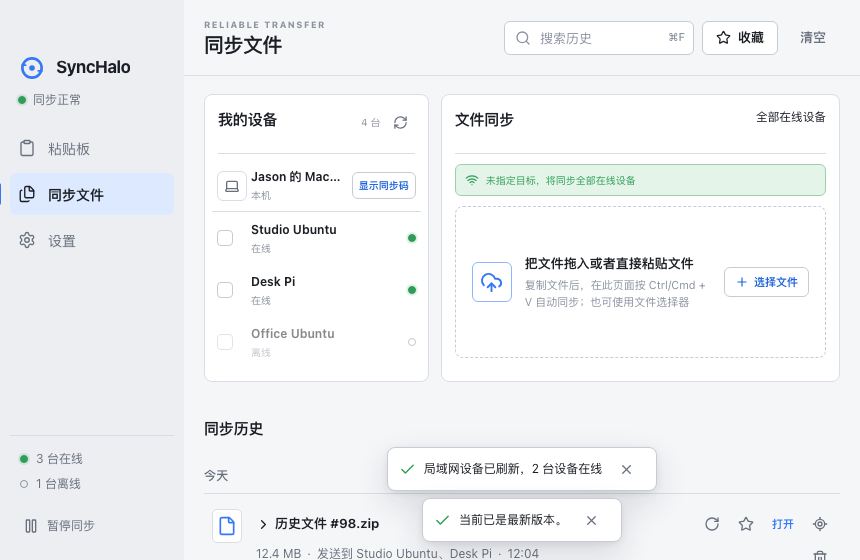
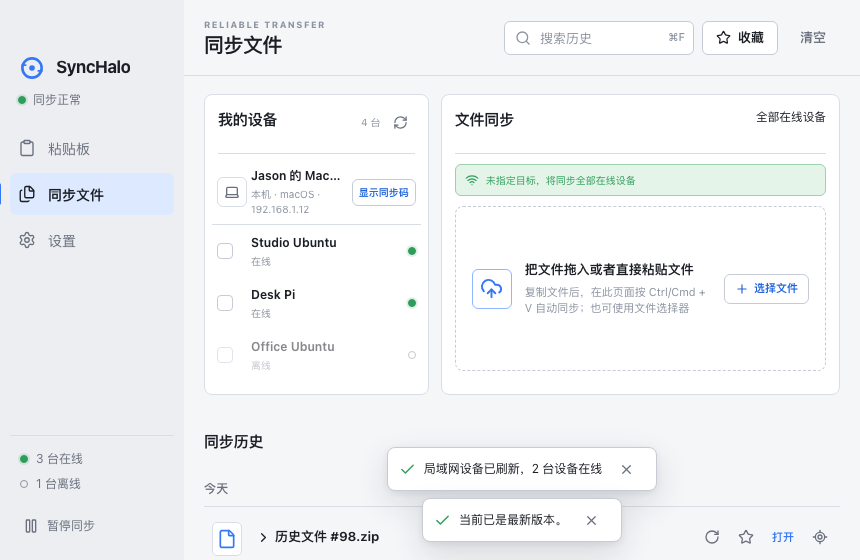
feat(devices): show local IP alongside system information

diff --git a/apps/desktop/src/pages/SettingsPage.tsx b/apps/desktop/src/pages/SettingsPage.tsx
@@ -16,7 +16,6 @@ import { useEffect, useMemo, useRef, useState } from "react";
 import type { ReactNode } from "react";
 
 import type {
-  DevicePlatform,
   DeviceView,
   HistoryRetention,
   LanguagePreference,
@@ -31,7 +30,7 @@ import { PageHeader } from "../components/PageHeader";
 import { Switch } from "../components/Switch";
 import { useI18n } from "../i18n";
 import type { MessageKey } from "../i18n/messages";
-import { formatRelative } from "../lib/format";
+import { formatDeviceSystem, formatRelative } from "../lib/format";
 
 interface SettingsPageProps {
   appVersion: string | null;
@@ -442,8 +441,7 @@ function DeviceGroup({
           <div className="device-copy">
             <strong>{device.name}</strong>
             <span>
-              {platformLabel(device.platform, t("common.unknownPlatform"))}
-              {device.address ? ` · ${device.address.split(":")[0]}` : ""}
+              {formatDeviceSystem(device, t("common.unknownPlatform"))}
               {device.paused ? ` · ${t("common.paused")}` : ""}
               {!device.isCurrent && device.connectionState === "offline"
                 ? ` · ${t("settings.lastOnline", { time: formatRelative(device.lastSeenAt, t) })}`
@@ -486,8 +484,4 @@ function DeviceGroup({
 function formatPairingInput(value: string): string {
   const digits = value.replace(/\D/g, "").slice(0, 6);
   return digits.length > 3 ? `${digits.slice(0, 3)} ${digits.slice(3)}` : digits;
-}
-
-function platformLabel(platform: DevicePlatform, unknown: string): string {
-  return platform === "macos" ? "macOS" : platform === "linux" ? "Ubuntu / Linux" : unknown;
 }

diff --git a/apps/desktop/src/App.test.tsx b/apps/desktop/src/App.test.tsx
@@ -40,6 +40,7 @@ describe("SyncHalo shell", () => {
     fireEvent.click(screen.getByRole("button", { name: /设置/ }));
     expect(screen.getByRole("heading", { name: "设置" })).toBeInTheDocument();
     expect(screen.getByText("我的设备")).toBeInTheDocument();
+    expect(document.querySelector(".device-row")).toHaveTextContent("macOS · 192.168.1.12");
     expect(screen.getByText("同步与历史")).toBeInTheDocument();
     expect(screen.queryByText("粘贴板与历史")).not.toBeInTheDocument();
     expect(screen.queryByText("自动同步粘贴板")).not.toBeInTheDocument();
@@ -305,7 +306,7 @@ describe("SyncHalo shell", () => {
 
     const deviceRows = document.querySelectorAll(".sync-device-row");
     expect(deviceRows[0]).toHaveTextContent("Jason 的 MacBook Air");
-    expect(deviceRows[0]).toHaveTextContent("本机");
+    expect(deviceRows[0]).toHaveTextContent("本机 · macOS · 192.168.1.12");
     fireEvent.click(screen.getByRole("button", { name: "显示同步码" }));
     const syncCodeDialog = await screen.findByRole("dialog", { name: "连接另一台设备" });
     expect(syncCodeDialog).toHaveClass("dialog-backdrop--contained", "dialog-backdrop--strong");

diff --git a/apps/desktop/src/pages/FilesPage.tsx b/apps/desktop/src/pages/FilesPage.tsx
@@ -35,7 +35,7 @@ import { ModalDialog } from "../components/ModalDialog";
 import { PageHeader } from "../components/PageHeader";
 import { localizeTransferError, useI18n } from "../i18n";
 import type { Translate } from "../i18n";
-import { formatBytes, formatTime, historyGroup, transferLabel } from "../lib/format";
+import { formatDeviceSystem, formatBytes, formatTime, historyGroup, transferLabel } from "../lib/format";
 
 interface FilesPageProps {
   transfers: TransferView[];
@@ -254,7 +254,7 @@ export function FilesPage({
                   <span className="device-icon"><Laptop aria-hidden="true" size={16} /></span>
                   <span className="sync-device-copy">
                     <strong>{currentDevice.name}</strong>
-                    <small>{t("common.localDevice")}</small>
+                    <small>{t("common.localDevice")} · {formatDeviceSystem(currentDevice, t("common.unknownPlatform"))}</small>
                   </span>
                   <button
                     className="sync-code-trigger"

diff --git a/apps/desktop/src/lib/format.ts b/apps/desktop/src/lib/format.ts
@@ -1,4 +1,4 @@
-import type { TransferState } from "../api/types";
+import type { DeviceView, TransferState } from "../api/types";
 import type { SupportedLocale, Translate } from "../i18n";
 
 export function formatBytes(bytes: number): string {
@@ -68,4 +68,13 @@ function isSameDay(a: Date, b: Date): boolean {
     a.getMonth() === b.getMonth() &&
     a.getDate() === b.getDate()
   );
+}
+
+export function formatDeviceSystem(device: DeviceView, unknown: string): string {
+  const platform = device.platform === "macos" ? "macOS" : device.platform === "linux" ? "Ubuntu / Linux" : unknown;
+  const address = device.address;
+  const ip = address?.startsWith("[")
+    ? address.slice(1, address.indexOf("]"))
+    : address?.split(":").length === 2 ? address.split(":")[0] : address;
+  return ip ? `${platform} · ${ip}` : platform;
 }

diff --git a/apps/desktop/src/lib/format.test.tsx b/apps/desktop/src/lib/format.test.tsx
@@ -1,0 +1,15 @@
+import { describe, expect, it } from "vitest";
+
+import type { DeviceView } from "../api/types";
+import { formatDeviceSystem } from "./format";
+
+describe("device system address", () => {
+  it.each([
+    ["192.168.1.12:53317", "macOS · 192.168.1.12"],
+    ["[fd00::12]:53317", "macOS · fd00::12"],
+    ["fd00::12", "macOS · fd00::12"],
+    [null, "macOS"],
+  ])("formats %s without a transport port", (address, expected) => {
+    expect(formatDeviceSystem({ platform: "macos", address } as DeviceView, "未知系统")).toBe(expected);
+  });
+});

diff --git a/apps/desktop/src/api/mock.ts b/apps/desktop/src/api/mock.ts
@@ -19,7 +19,7 @@ export const mockSnapshot: AppSnapshot = {
       platform: "macos",
       connectionState: "online",
       isCurrent: true,
-      address: null,
+      address: "192.168.1.12:53317",
       lastSeenAt: new Date(now).toISOString(),
       lastSyncAt: new Date(now - 14_000).toISOString(),
       paused: false,

diff --git a/apps/desktop/src/styles/components.css b/apps/desktop/src/styles/components.css
@@ -866,6 +866,11 @@ button.sync-device-row.is-selected {
   white-space: nowrap;
 }
 
+.sync-device-row.is-current .sync-device-copy small {
+  overflow-wrap: anywhere;
+  white-space: normal;
+}
+
 .sync-code-trigger {
   min-height: 27px;
   padding: 0 8px;

diff --git a/crates/network/src/local_address.rs b/crates/network/src/local_address.rs
@@ -1,0 +1,70 @@
+use std::net::{IpAddr, SocketAddr};
+
+/// Read current interfaces on each refresh so network changes reach the device view.
+pub fn local_address(port: u16) -> Option<SocketAddr> {
+    let interfaces = if_addrs::get_if_addrs().ok()?;
+    let addresses = interfaces
+        .iter()
+        .filter(|interface| interface.is_oper_up() && !interface.is_p2p())
+        .map(|interface| interface.ip());
+    preferred_local_ip(addresses).map(|ip| SocketAddr::new(ip, port))
+}
+
+fn preferred_local_ip(addresses: impl Iterator<Item = IpAddr>) -> Option<IpAddr> {
+    addresses
+        .filter(|ip| {
+            !ip.is_loopback()
+                && !ip.is_unspecified()
+                && !ip.is_multicast()
+                && match ip {
+                    IpAddr::V4(ip) => !ip.is_link_local() && !ip.is_broadcast(),
+                    // Link-local IPv6 requires a scope ID, which this view does not carry.
+                    IpAddr::V6(ip) => !ip.is_unicast_link_local(),
+                }
+        })
+        .min_by_key(|ip| {
+            let priority = match ip {
+                IpAddr::V4(ip) if ip.is_private() => 0,
+                IpAddr::V4(_) => 1,
+                IpAddr::V6(_) => 2,
+            };
+            (priority, *ip)
+        })
+}
+
+#[cfg(test)]
+mod tests {
+    use super::*;
+
+    fn select(addresses: &[&str]) -> Option<IpAddr> {
+        preferred_local_ip(addresses.iter().map(|address| address.parse().unwrap()))
+    }
+
+    #[test]
+    fn prefers_lan_ipv4_and_has_stable_order() {
+        assert_eq!(
+            select(&["fd00::1", "8.8.8.8", "192.168.1.12", "10.0.0.2"]),
+            Some("10.0.0.2".parse().unwrap())
+        );
+        assert_eq!(select(&["fd00::1"]), Some("fd00::1".parse().unwrap()));
+    }
+
+    #[test]
+    fn unavailable_network_does_not_show_unusable_addresses() {
+        assert_eq!(select(&[]), None);
+        assert_eq!(
+            select(&[
+                "127.0.0.1",
+                "::1",
+                "0.0.0.0",
+                "::",
+                "224.0.0.1",
+                "ff02::1",
+                "169.254.1.1",
+                "fe80::1",
+                "255.255.255.255"
+            ]),
+            None
+        );
+    }
+}

diff --git a/tests/e2e/ui_smoke.py b/tests/e2e/ui_smoke.py
@@ -107,7 +107,7 @@ def main() -> None:
         assert page.get_by_text("已完成", exact=True).count() == 0
         first_device = page.locator(".sync-device-row").first
         assert first_device.get_by_text("Jason 的 MacBook Air").is_visible()
-        assert first_device.get_by_text("本机", exact=True).is_visible()
+        assert first_device.get_by_text("本机 · macOS · 192.168.1.12", exact=True).is_visible()
         assert page.get_by_text("把文件拖入或者直接粘贴文件").is_visible()
         assert page.get_by_text("未指定目标，将同步全部在线设备").is_visible()
         assert page.get_by_text(re.compile(r"^(01|02|03) ·")).count() == 0

diff --git a/apps/desktop/src-tauri/src/runtime.rs b/apps/desktop/src-tauri/src/runtime.rs
@@ -280,7 +280,8 @@ impl AppRuntime {
             platform: synchalo_core::DevicePlatform::current(),
             connection_state: DeviceConnectionState::Online,
             is_current: true,
-            address: None,
+            address: synchalo_network::local_address(self.transport_port)
+                .map(|address| address.to_string()),
             last_seen_at: Some(now),
             last_sync_at: None,
             paused: false,

diff --git a/crates/network/src/lib.rs b/crates/network/src/lib.rs
@@ -1,10 +1,12 @@
 mod discovery;
+mod local_address;
 mod pairing;
 mod transport;
 
 pub use discovery::{
     DiscoveredPeer, DiscoveryConfig, DiscoveryEvent, DiscoveryService, SERVICE_TYPE,
 };
+pub use local_address::local_address;
 pub use pairing::PairingCodeManager;
 pub use transport::{
     LanTransport, PairingCandidate, TransportCredentials, TransportEvent, TransportIdentity,
